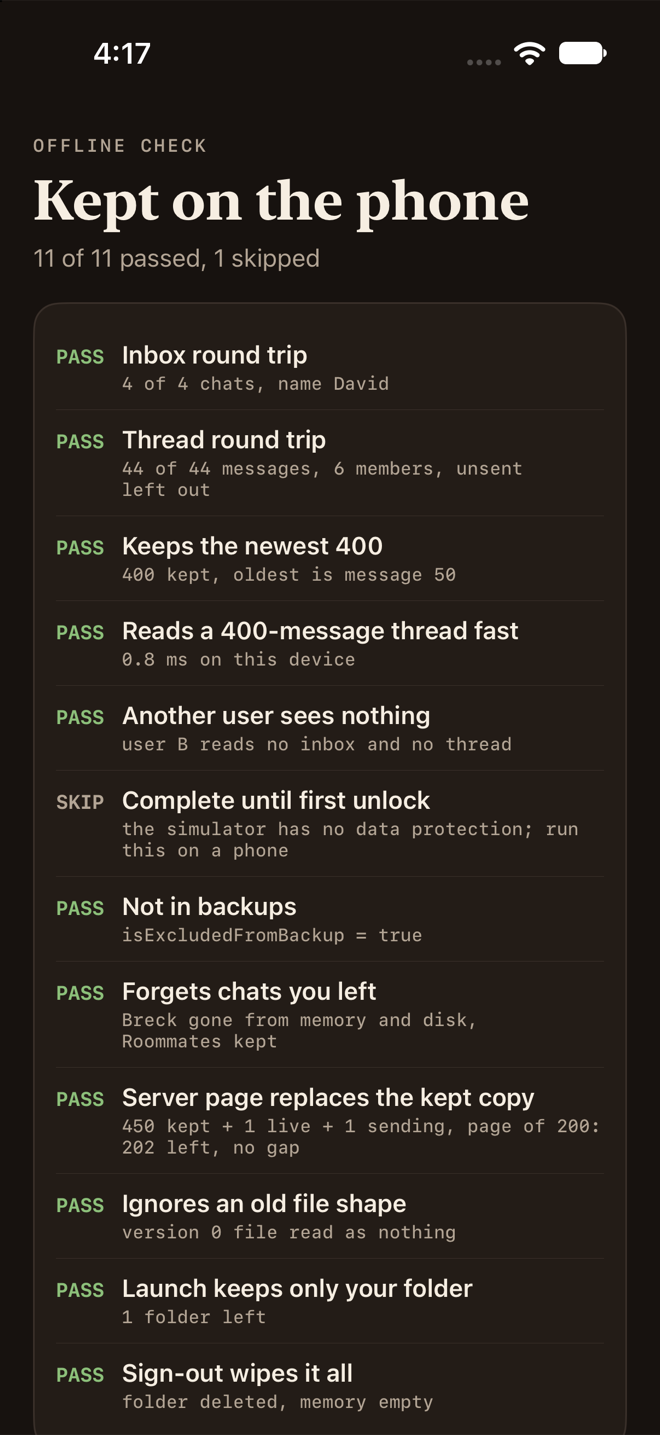
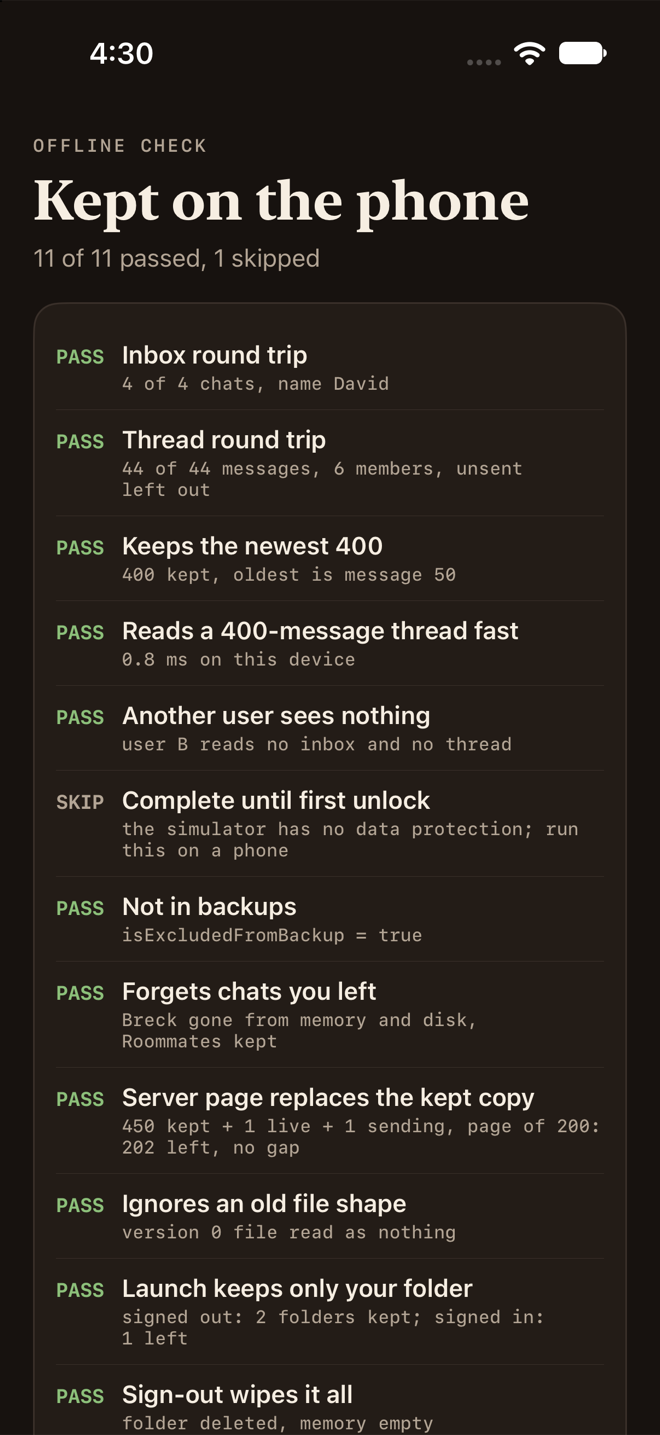
DeviceStore: launch clean-up only runs with someone signed in
A session that can't be read at launch isn't a sign-out, so tidy() no longer
deletes every folder when nobody is signed in (sign-out already wiped). The
store check covers both cases.

diff --git a/ios/Ketchup/Debug/StoreCheckScreen.swift b/ios/Ketchup/Debug/StoreCheckScreen.swift
@@ -181,15 +181,21 @@ enum StoreCheck {
         try? old.write(to: file)
         check("Ignores an old file shape", store().inbox() == nil, "version 0 file read as nothing")
 
-        // 10. Launch clean-up: only the signed-in user's folder stays.
+        // 10. Launch clean-up: only the signed-in user's folder stays, and
+        // with nobody signed in nothing is touched.
         let b = DeviceStore(root: root) { userB }
         b.saveInbox(inbox)
         await b.flush()
+        let nobody = DeviceStore(root: root) { nil }
+        nobody.tidy()
+        await nobody.flush()
+        let untouched = (try? FileManager.default.contentsOfDirectory(atPath: root.path(percentEncoded: false)))?.count ?? 0
         let tidier = store()
         tidier.tidy()
         await tidier.flush()
         let folders = (try? FileManager.default.contentsOfDirectory(atPath: root.path(percentEncoded: false))) ?? []
-        check("Launch keeps only your folder", folders == [userA.uuidString.lowercased()], "\(folders.count) folder left")
+        check("Launch keeps only your folder", untouched == 2 && folders == [userA.uuidString.lowercased()],
+              "signed out: \(untouched) folders kept; signed in: \(folders.count) left")
 
         // 11. Signing out deletes everything.
         tidier.saveInbox(inbox)

diff --git a/ios/Ketchup/Store/DeviceStore.swift b/ios/Ketchup/Store/DeviceStore.swift
@@ -134,9 +134,11 @@ final class DeviceStore {
     }
 
     /// At launch: deletes any folder that isn't the signed-in user's (a
-    /// sign-out the app was closed in the middle of).
+    /// sign-out the app was closed in the middle of). With nobody signed in
+    /// it leaves everything: sign-out already wiped, and a session that
+    /// couldn't be read yet isn't a sign-out.
     func tidy() {
-        let current = user()?.uuidString.lowercased()
+        guard let current = user()?.uuidString.lowercased() else { return }
         let root = root
         queue.async {
             let folders = (try? FileManager.default.contentsOfDirectory(at: root, includingPropertiesForKeys: nil)) ?? []
